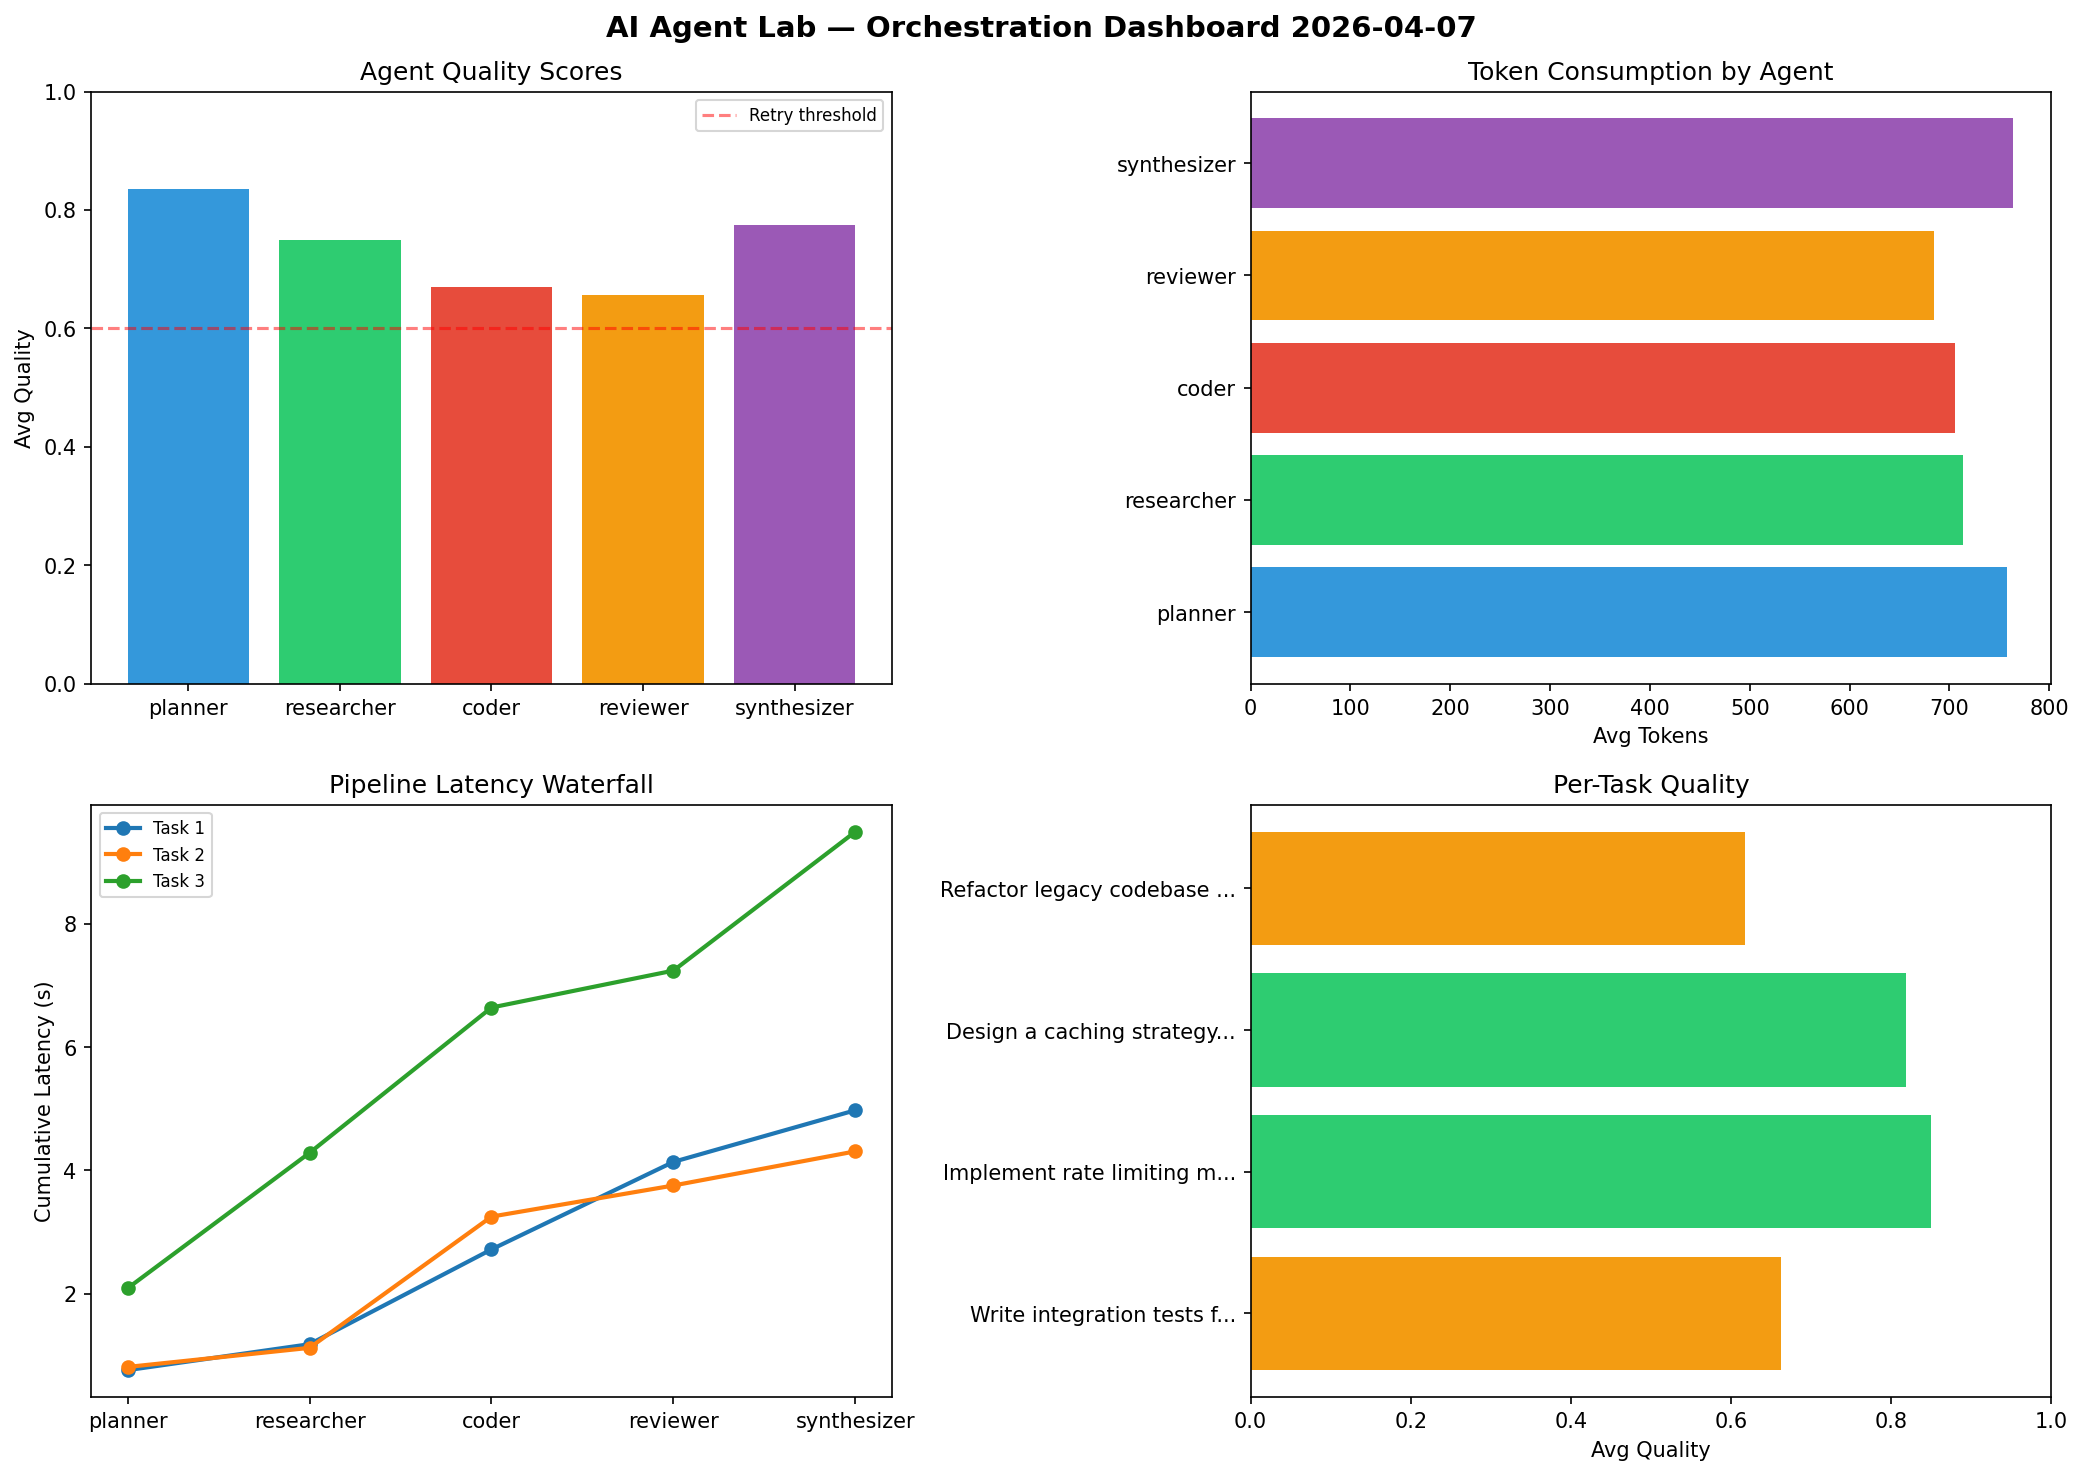
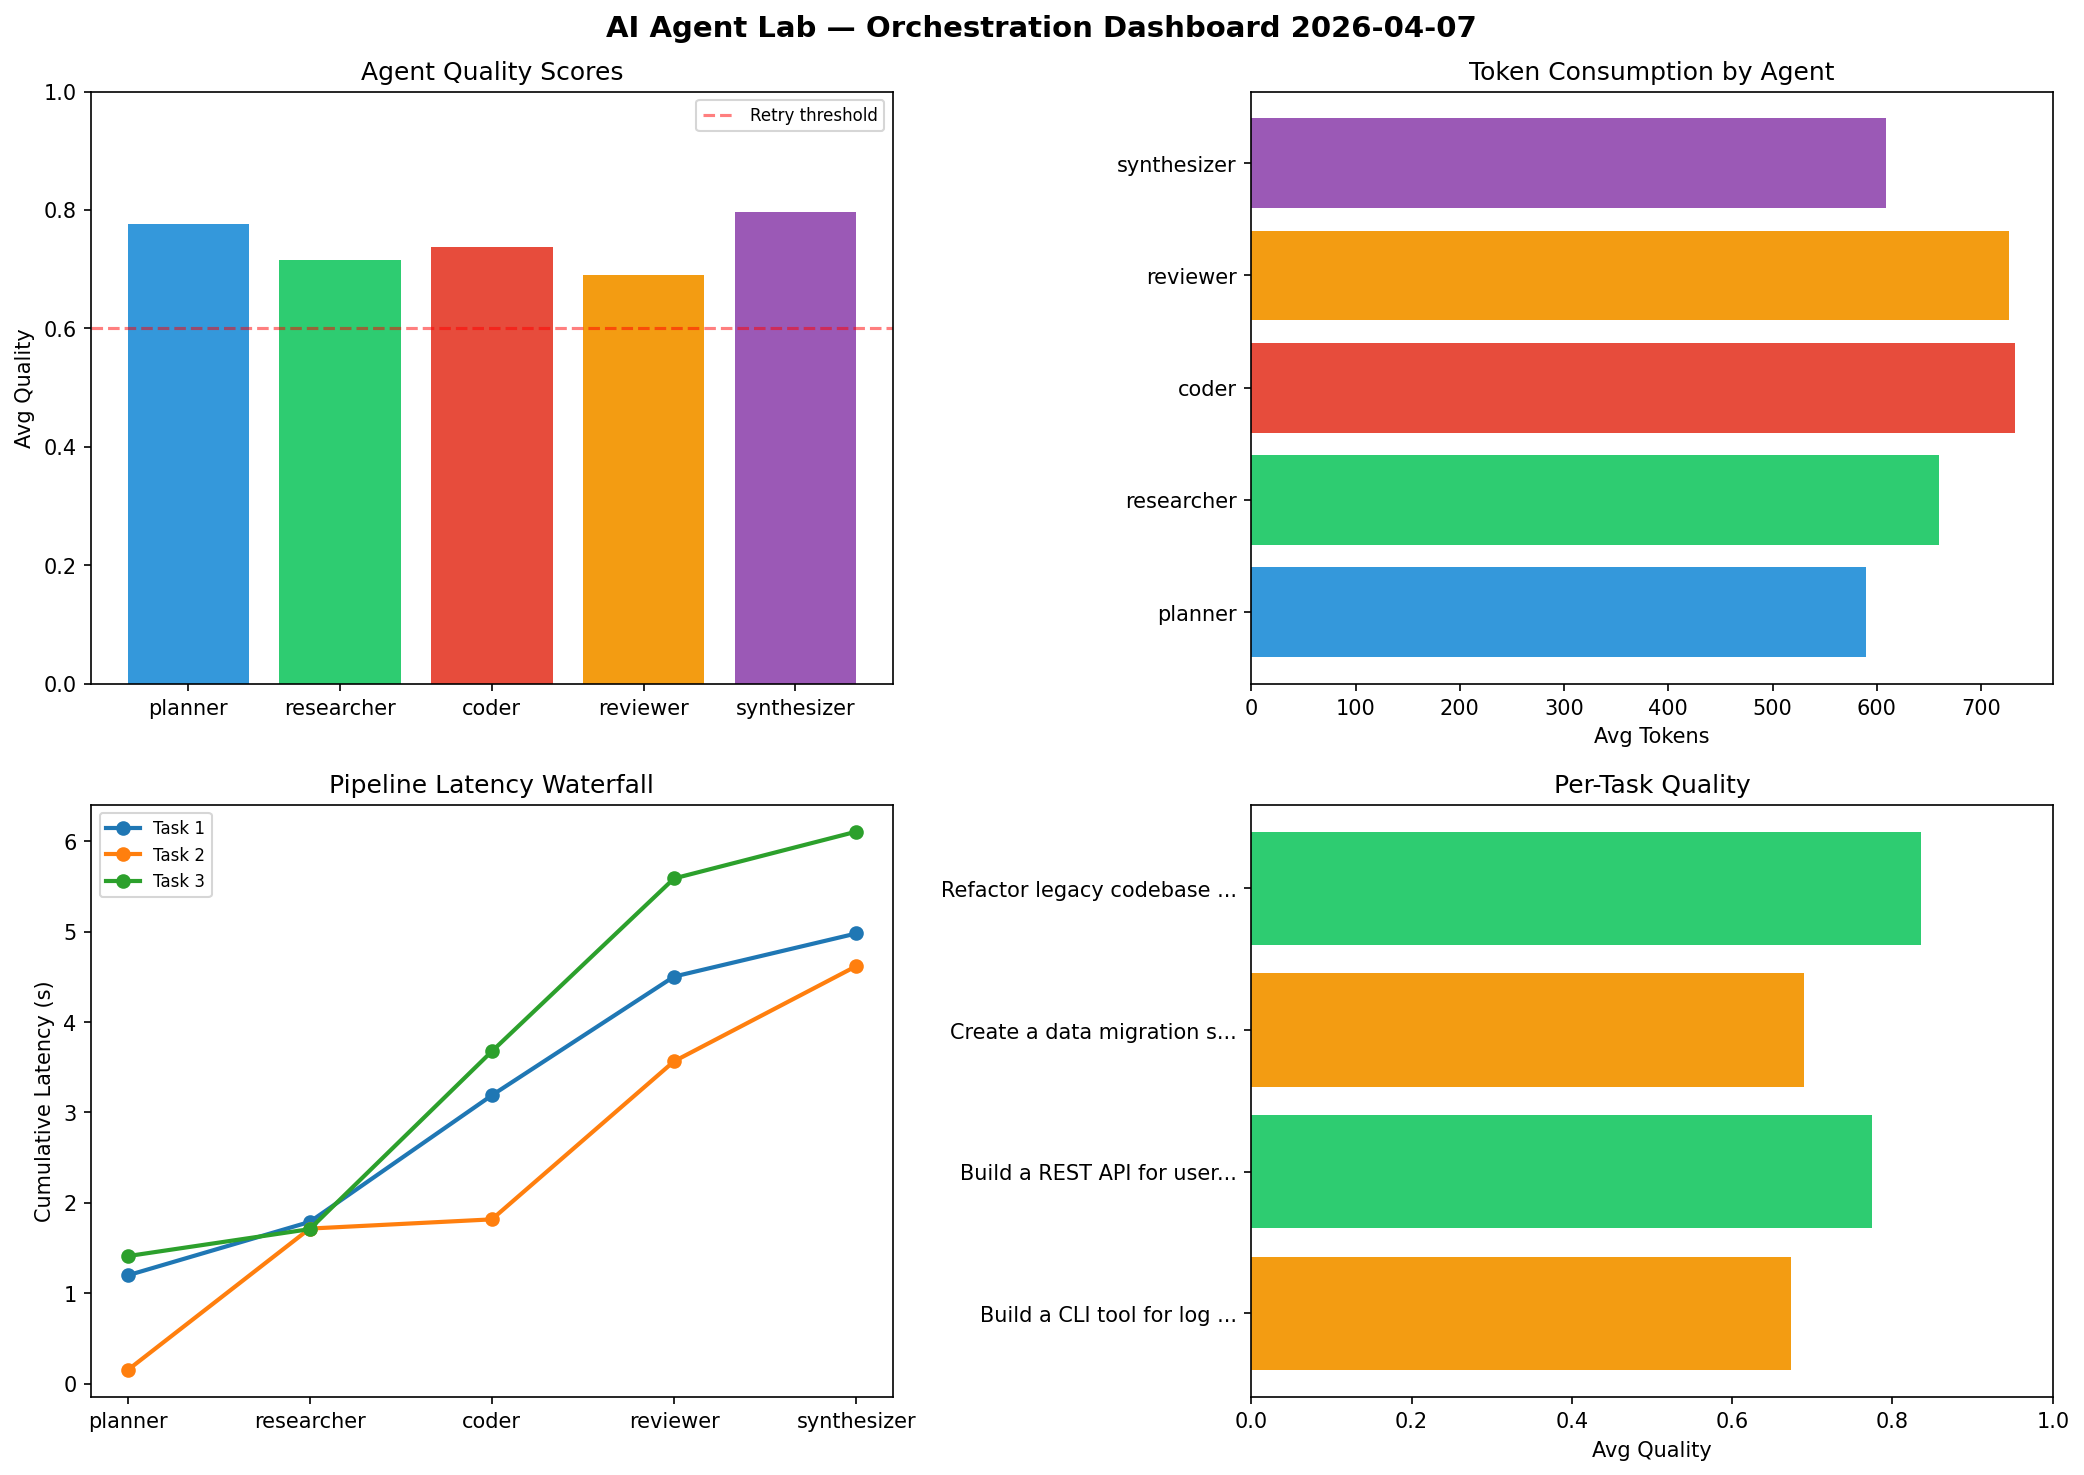
ai-agent-lab: orchestration run 2026-04-07T15:47

diff --git a/logs/2026-04-07.md b/logs/2026-04-07.md
@@ -1,6 +1,6 @@
 # AI Agent Lab — Orchestration Report 2026-04-07
 
-**Run ID:** `54ad6a0129` | **Tasks:** 4 | **Avg Quality:** 0.737
+**Run ID:** `fb01fc1446` | **Tasks:** 4 | **Avg Quality:** 0.743
 
 ![Dashboard](2026-04-07_dashboard.png)
 
@@ -8,52 +8,52 @@
 
 | Metric | Value |
 |--------|-------|
-| avg_latency | 6.397 |
-| total_tokens | 14497 |
-| avg_quality | 0.737 |
+| avg_latency | 5.899 |
+| total_tokens | 13268 |
+| avg_quality | 0.743 |
 
 ## Delta vs Yesterday
 
 | Metric | Today | Yesterday | Change |
 |--------|-------|-----------|--------|
-| avg_latency | 6.397 | 7.512 | 📉 -14.8% |
-| total_tokens | 14497 | 16502 | 📉 -12.2% |
-| avg_quality | 0.737 | 0.751 | 📉 -1.9% |
+| avg_latency | 5.899 | 7.512 | 📉 -21.5% |
+| total_tokens | 13268 | 16502 | 📉 -19.6% |
+| avg_quality | 0.743 | 0.751 | 📉 -1.1% |
 
 ## Pipeline Results
 
-### Write integration tests for payment processing module
+### Build a CLI tool for log analysis
 | Agent | Quality | Latency | Tokens | Status |
 |-------|---------|---------|--------|--------|
-| planner | 0.695 | 0.758s | 815 | success |
-| researcher | 0.553 | 0.421s | 1115 | needs_retry |
-| coder | 0.693 | 1.538s | 662 | success |
-| reviewer | 0.676 | 1.42s | 432 | success |
-| synthesizer | 0.692 | 0.838s | 932 | success |
+| planner | 0.684 | 1.197s | 663 | success |
+| researcher | 0.629 | 0.592s | 199 | success |
+| coder | 0.563 | 1.401s | 603 | needs_retry |
+| reviewer | 0.505 | 1.314s | 1096 | needs_retry |
+| synthesizer | 0.982 | 0.477s | 261 | success |
 
-### Implement rate limiting middleware
+### Build a REST API for user authentication
 | Agent | Quality | Latency | Tokens | Status |
 |-------|---------|---------|--------|--------|
-| planner | 0.976 | 0.81s | 787 | success |
-| researcher | 0.919 | 0.31s | 372 | success |
-| coder | 0.536 | 2.129s | 798 | needs_retry |
-| reviewer | 0.843 | 0.505s | 657 | success |
-| synthesizer | 0.974 | 0.554s | 517 | success |
+| planner | 0.86 | 0.148s | 923 | success |
+| researcher | 0.606 | 1.567s | 764 | success |
+| coder | 0.773 | 0.102s | 952 | success |
+| reviewer | 0.834 | 1.749s | 647 | success |
+| synthesizer | 0.799 | 1.053s | 450 | success |
 
-### Design a caching strategy for high-traffic endpoints
+### Create a data migration script for schema v2
 | Agent | Quality | Latency | Tokens | Status |
 |-------|---------|---------|--------|--------|
-| planner | 0.961 | 2.086s | 487 | success |
-| researcher | 0.858 | 2.197s | 783 | success |
-| coder | 0.788 | 2.358s | 745 | success |
-| reviewer | 0.561 | 0.599s | 705 | needs_retry |
-| synthesizer | 0.927 | 2.254s | 736 | success |
+| planner | 0.572 | 1.41s | 359 | needs_retry |
+| researcher | 0.963 | 0.299s | 872 | success |
+| coder | 0.754 | 1.968s | 699 | success |
+| reviewer | 0.655 | 1.913s | 553 | success |
+| synthesizer | 0.507 | 0.518s | 518 | needs_retry |
 
 ### Refactor legacy codebase to use dependency injection
 | Agent | Quality | Latency | Tokens | Status |
 |-------|---------|---------|--------|--------|
-| planner | 0.709 | 0.137s | 940 | success |
-| researcher | 0.664 | 1.743s | 585 | success |
-| coder | 0.664 | 0.898s | 617 | success |
-| reviewer | 0.544 | 2.305s | 942 | needs_retry |
-| synthesizer | 0.506 | 1.73s | 870 | needs_retry |
+| planner | 0.988 | 0.276s | 412 | success |
+| researcher | 0.665 | 2.473s | 805 | success |
+| coder | 0.857 | 1.894s | 675 | success |
+| reviewer | 0.767 | 0.905s | 611 | success |
+| synthesizer | 0.899 | 2.341s | 1206 | success |
